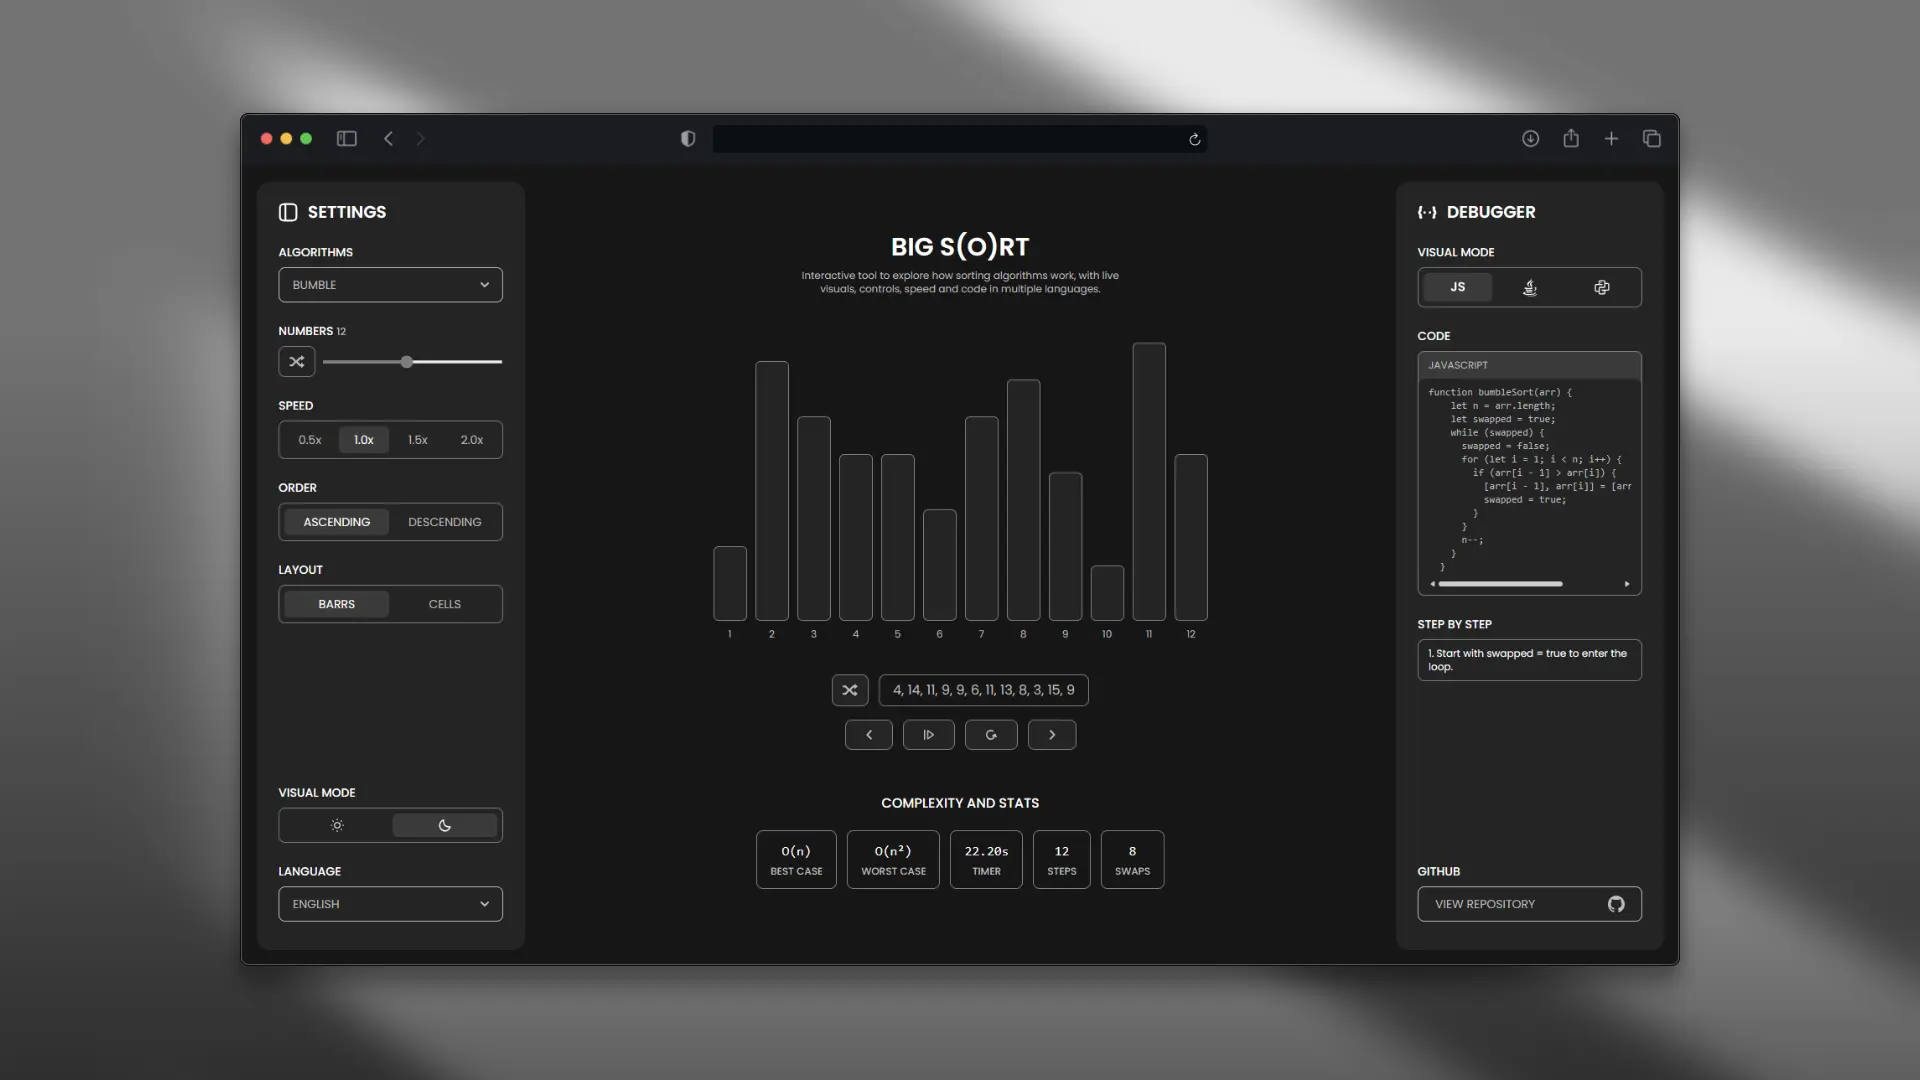
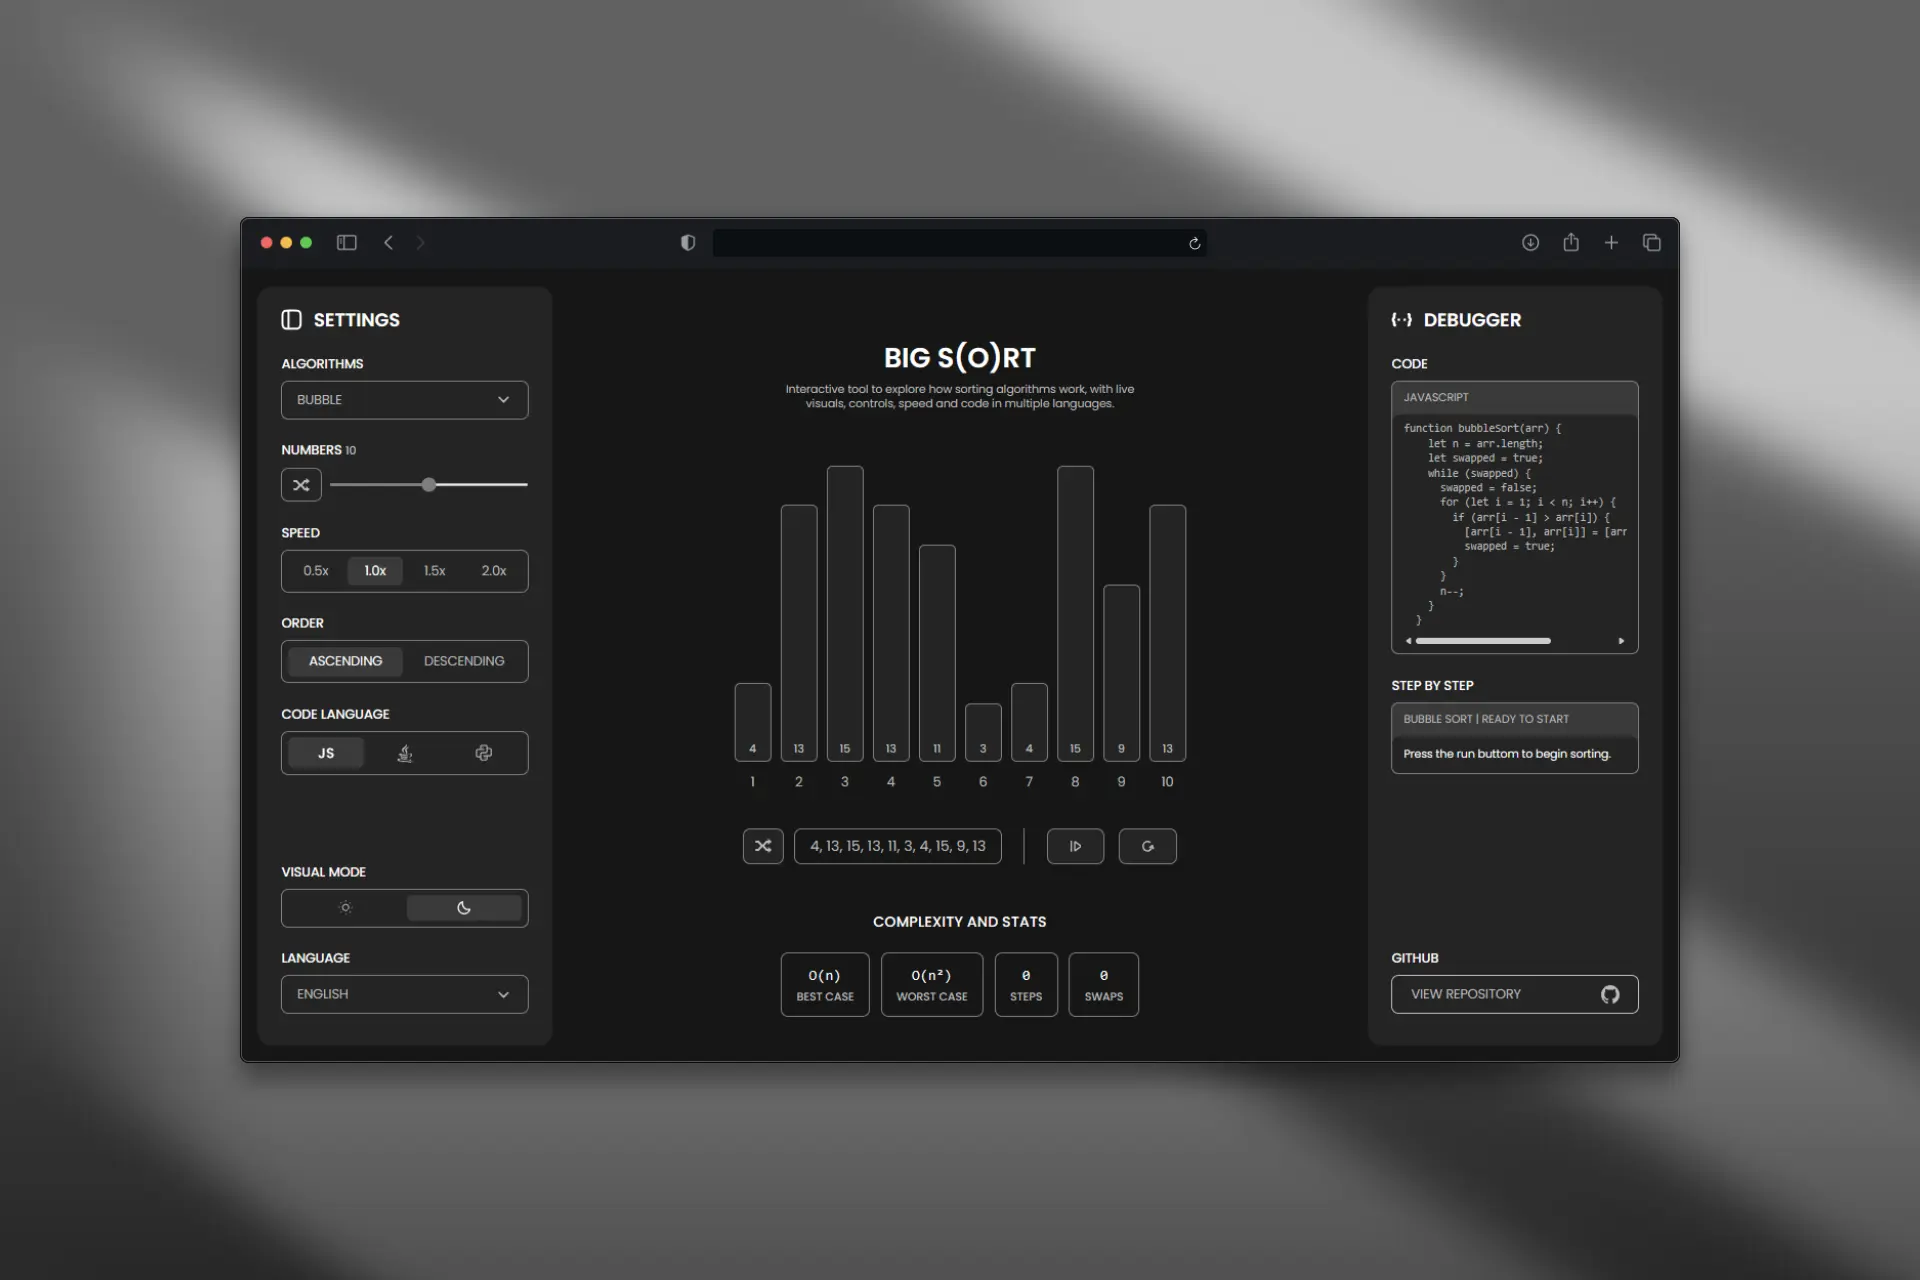
new bigsort.webp

diff --git a/src/sections/Bigsort.tsx b/src/sections/Bigsort.tsx
@@ -13,6 +13,7 @@ import { playSteps } from "../snippets/animation/playSteps";
 import { getInsertionSortSteps } from "../snippets/animation/insertionSteps";
 import { getSelectionSortSteps } from "../snippets/animation/selectionSteps";
 import { getQuickSortSteps } from "../snippets/animation/quickSteps";
+import IconPause from "../components/icons/controls/IconPause";
 
 type BigSortProps = {
   randomNumberItems: number;
@@ -44,6 +45,11 @@ function BigSort({ randomNumberItems, codeLanguage, codeAlgorithm, algSpeed, set
     const newList = createList(randomNumberItems);
     setCurrentList(newList);
   };
+
+  const [isPaused, setIsPaused] = useState(true);
+  const handleIsPaused = () => {
+    setIsPaused(value => !value);
+  }
 
   const worstCase = snippets[codeAlgorithm][codeLanguage].complexity.worst;
   const bestCase = snippets[codeAlgorithm][codeLanguage].complexity.best;
@@ -124,10 +130,11 @@ function BigSort({ randomNumberItems, codeLanguage, codeAlgorithm, algSpeed, set
             <PanelItem className="cursor-pointer px-6 text-BM-subtext hover:text-BM-text hover:border-BM-subtext bg-BM-sidebar">
               <IconBack />
             </PanelItem>
-            <PanelItem onClick={handleRun} className="cursor-pointer px-6 text-BM-subtext hover:text-BM-text hover:border-BM-subtext bg-BM-sidebar">
-              <IconRun />
+            <PanelItem onClick={handleIsPaused} className="cursor-pointer px-6 text-BM-subtext hover:text-BM-text hover:border-BM-subtext bg-BM-sidebar">
+              {isPaused ? <IconRun/> : <IconPause/>}
             </PanelItem>
-            <PanelItem className="cursor-pointer px-6 text-BM-subtext hover:text-BM-text hover:border-BM-subtext bg-BM-sidebar">
+            <PanelItem className={`${isPaused ? "opacity-50 cursor-not-allowed" : "cursor-pointer"}  px-6 text-BM-subtext hover:text-BM-text hover:border-BM-subtext bg-BM-sidebar`}>
+              
               <IconRetry />
             </PanelItem>
             <PanelItem className="cursor-pointer px-6 text-BM-subtext hover:text-BM-text hover:border-BM-subtext bg-BM-sidebar">

diff --git a/src/types.ts b/src/types.ts
@@ -29,3 +29,5 @@ export interface SortStep {
 }
 
 export type OrderKey = "ASCENDING" | "DESCENDING"
+
+export type AnimationState = "IDLE" | "RUNNING" | "PAUSED" | "COMPLETED";
